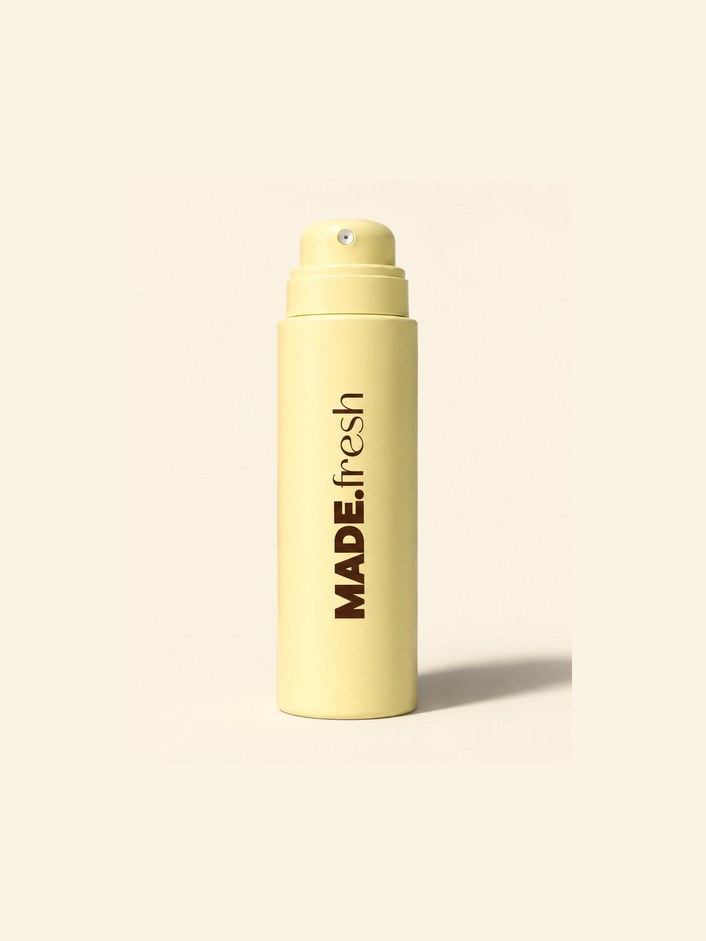
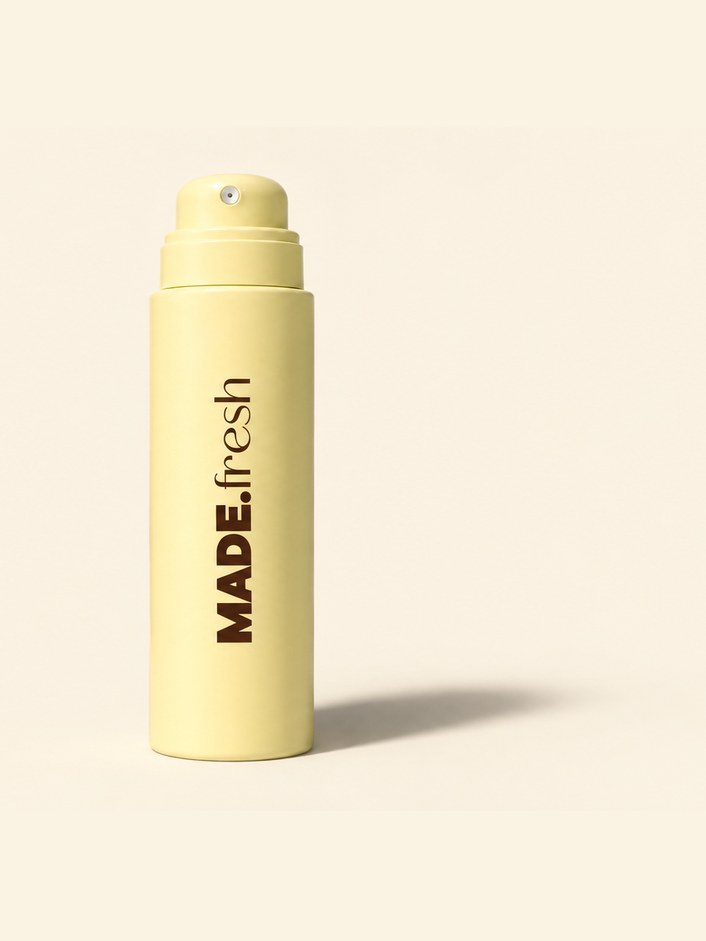
Update navigation, centre the footer wordmark, refit the product shots
Nav and footer now list Our Story, Shop, Community, FAQs, Contact. The
product panels were cropped to 3:4 before scaling, which cut the shadow
off the side; they now scale the bottle's full bounding box with room for
the shadow and centre the bottle on the panel.

Changed region(s): [[0.187, 0.1849, 0.8102, 0.8321]]

diff --git a/src/components/Footer.tsx b/src/components/Footer.tsx
@@ -2,12 +2,11 @@ import Link from "next/link";
 import { Wordmark } from "./Logo";
 
 const navigate = [
-  ["Shop", "/shop"],
   ["Our Story", "/our-story"],
-  ["Rhode Futures", "/futures"],
-  ["Impact", "/impact"],
-  ["VLOG", "/vlog"],
-  ["Where to Find Us", "/stockists"],
+  ["Shop", "/shop"],
+  ["Community", "/community"],
+  ["FAQs", "/faqs"],
+  ["Contact", "/contact"],
 ];
 
 const social = [
@@ -20,7 +19,7 @@ export function Footer() {
   return (
     <footer className="bg-cream px-6 pb-14 pt-20 md:px-10">
       <div>
-        <Wordmark className="h-[14vw] max-h-[220px]" />
+        <Wordmark className="mx-auto h-[14vw] max-h-[220px]" />
 
         {/* 29.38pt on the design's 1366-wide canvas = 2.15% of the page. */}
         <div className="mt-16 flex flex-wrap gap-16 text-lg font-bold md:gap-[13%] md:text-[2.15vw]">

diff --git a/src/components/Nav.tsx b/src/components/Nav.tsx
@@ -2,10 +2,10 @@ import Link from "next/link";
 import { Wordmark } from "./Logo";
 
 const links = [
-  ["Shop", "/shop"],
   ["Our Story", "/our-story"],
+  ["Shop", "/shop"],
+  ["Community", "/community"],
   ["FAQs", "/faqs"],
-  ["Cart", "/cart"],
   ["Contact", "/contact"],
 ];
 
